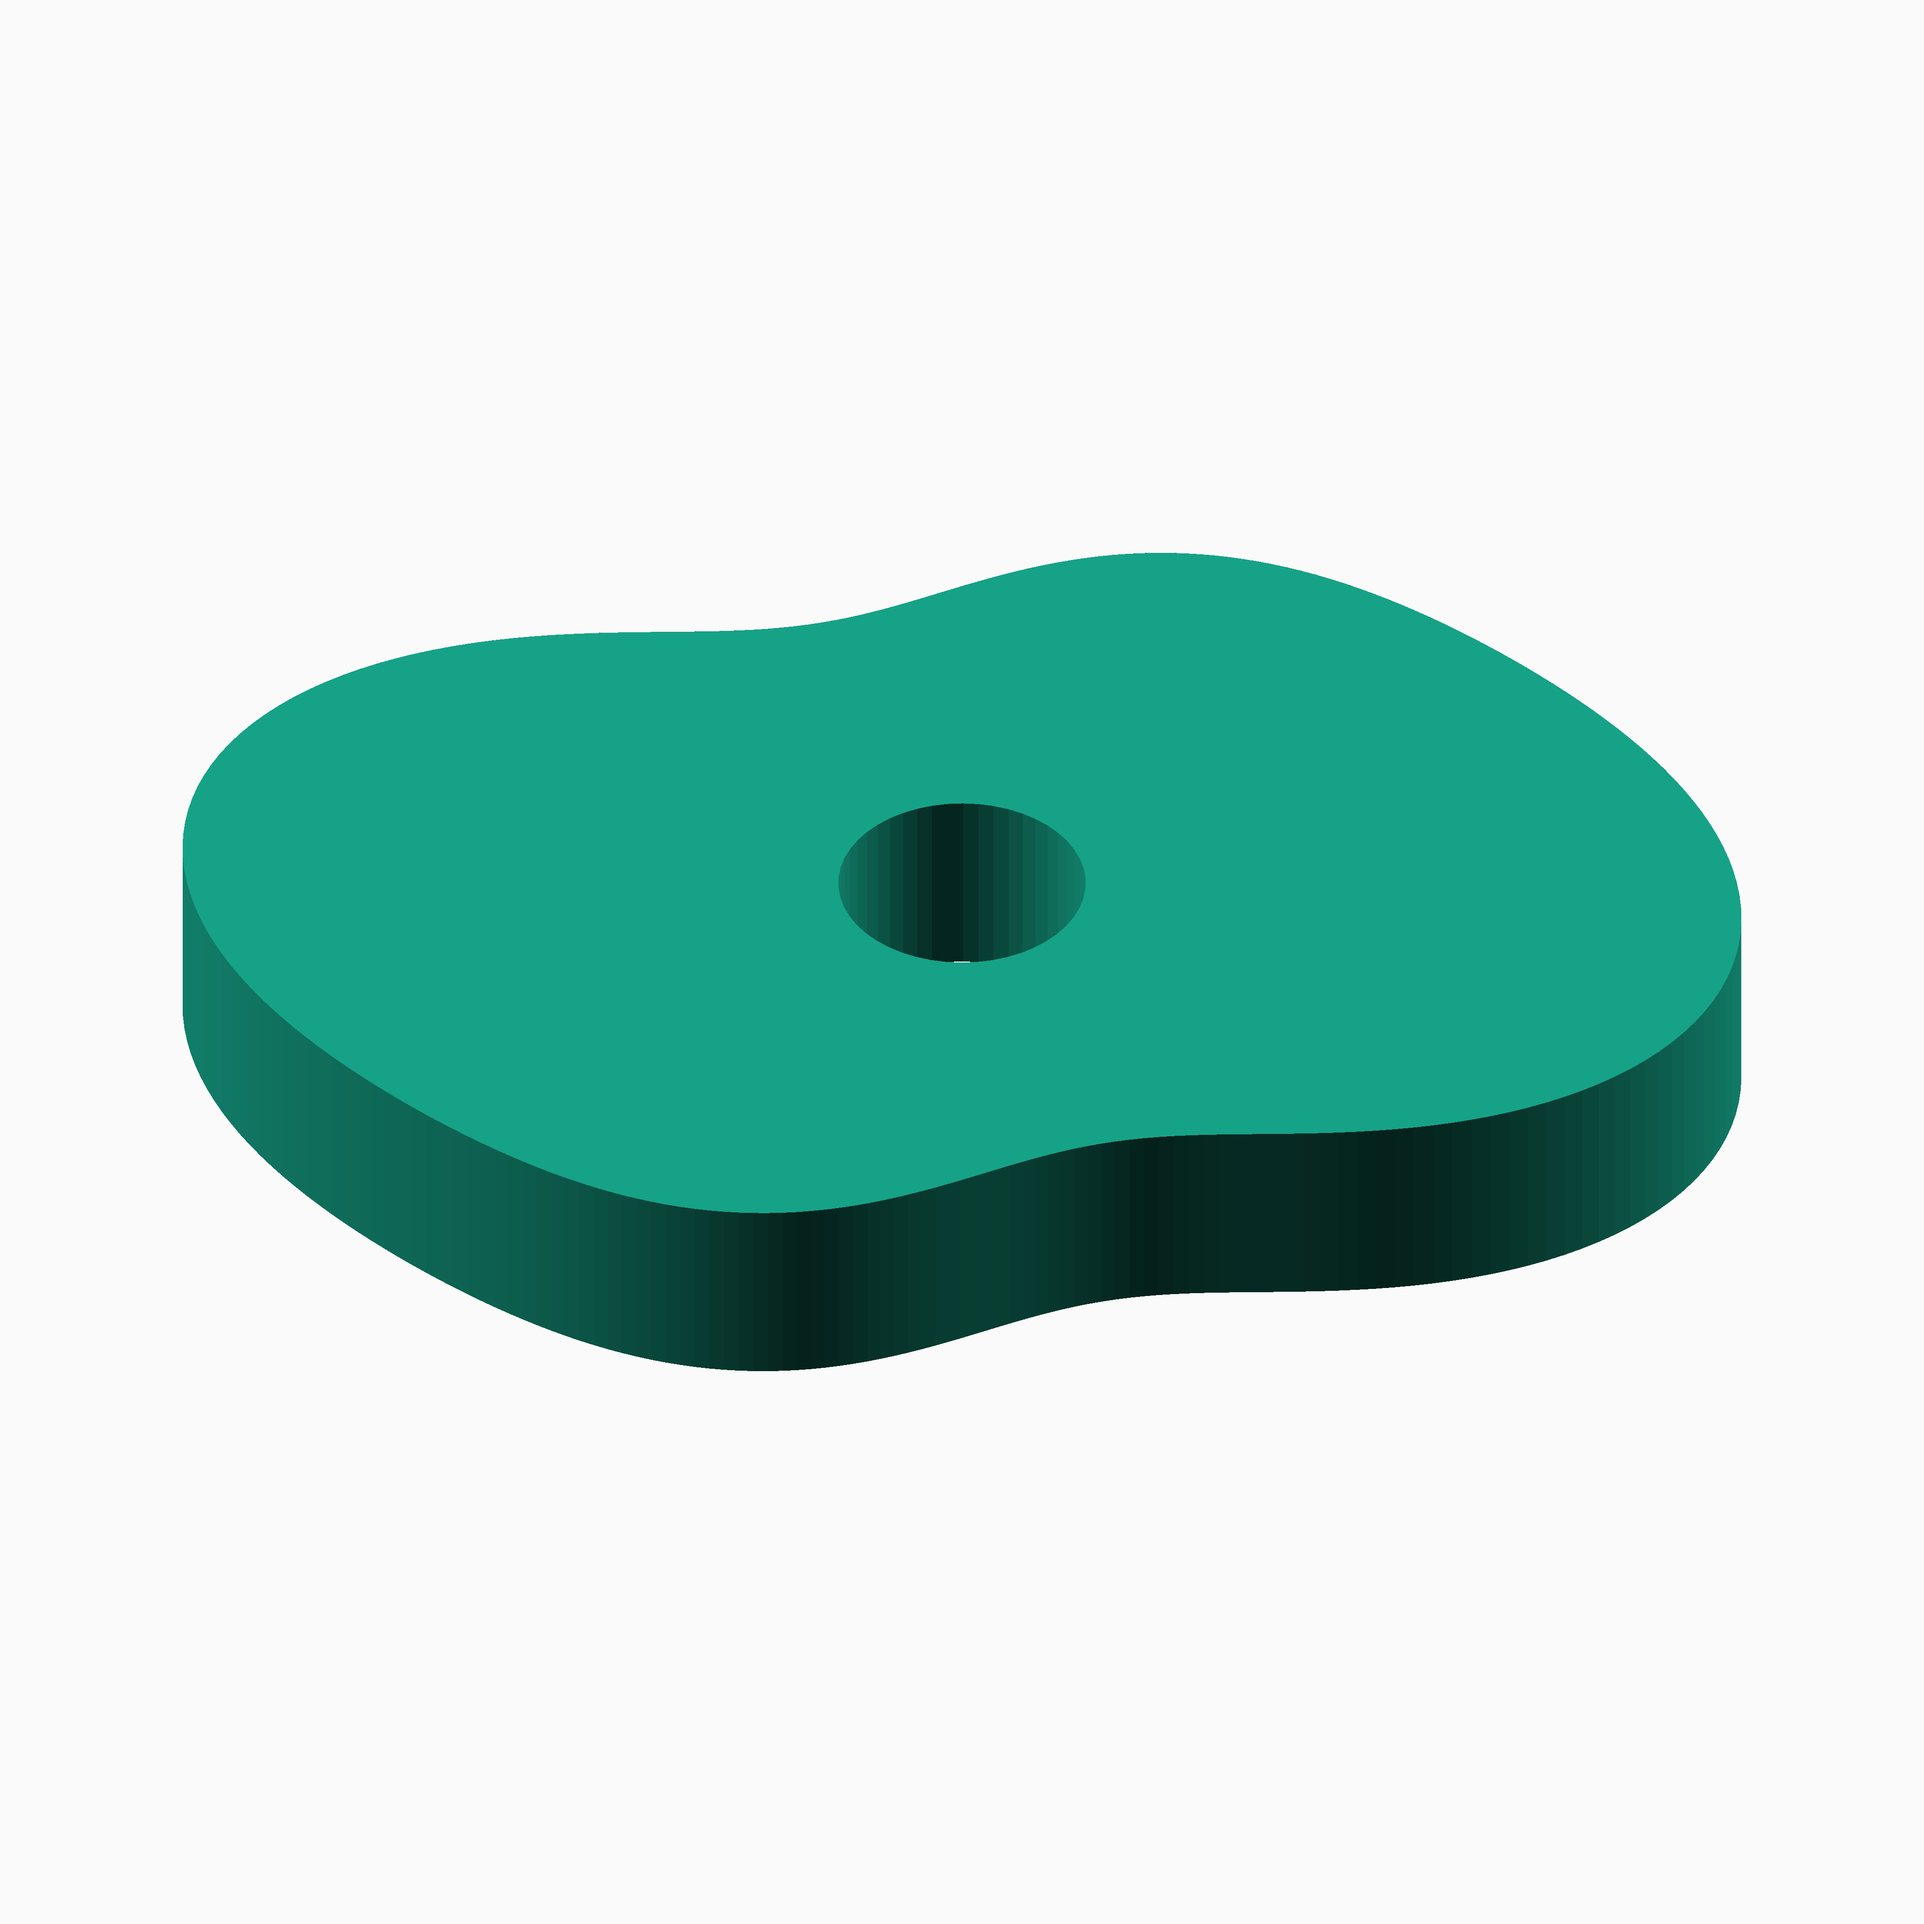
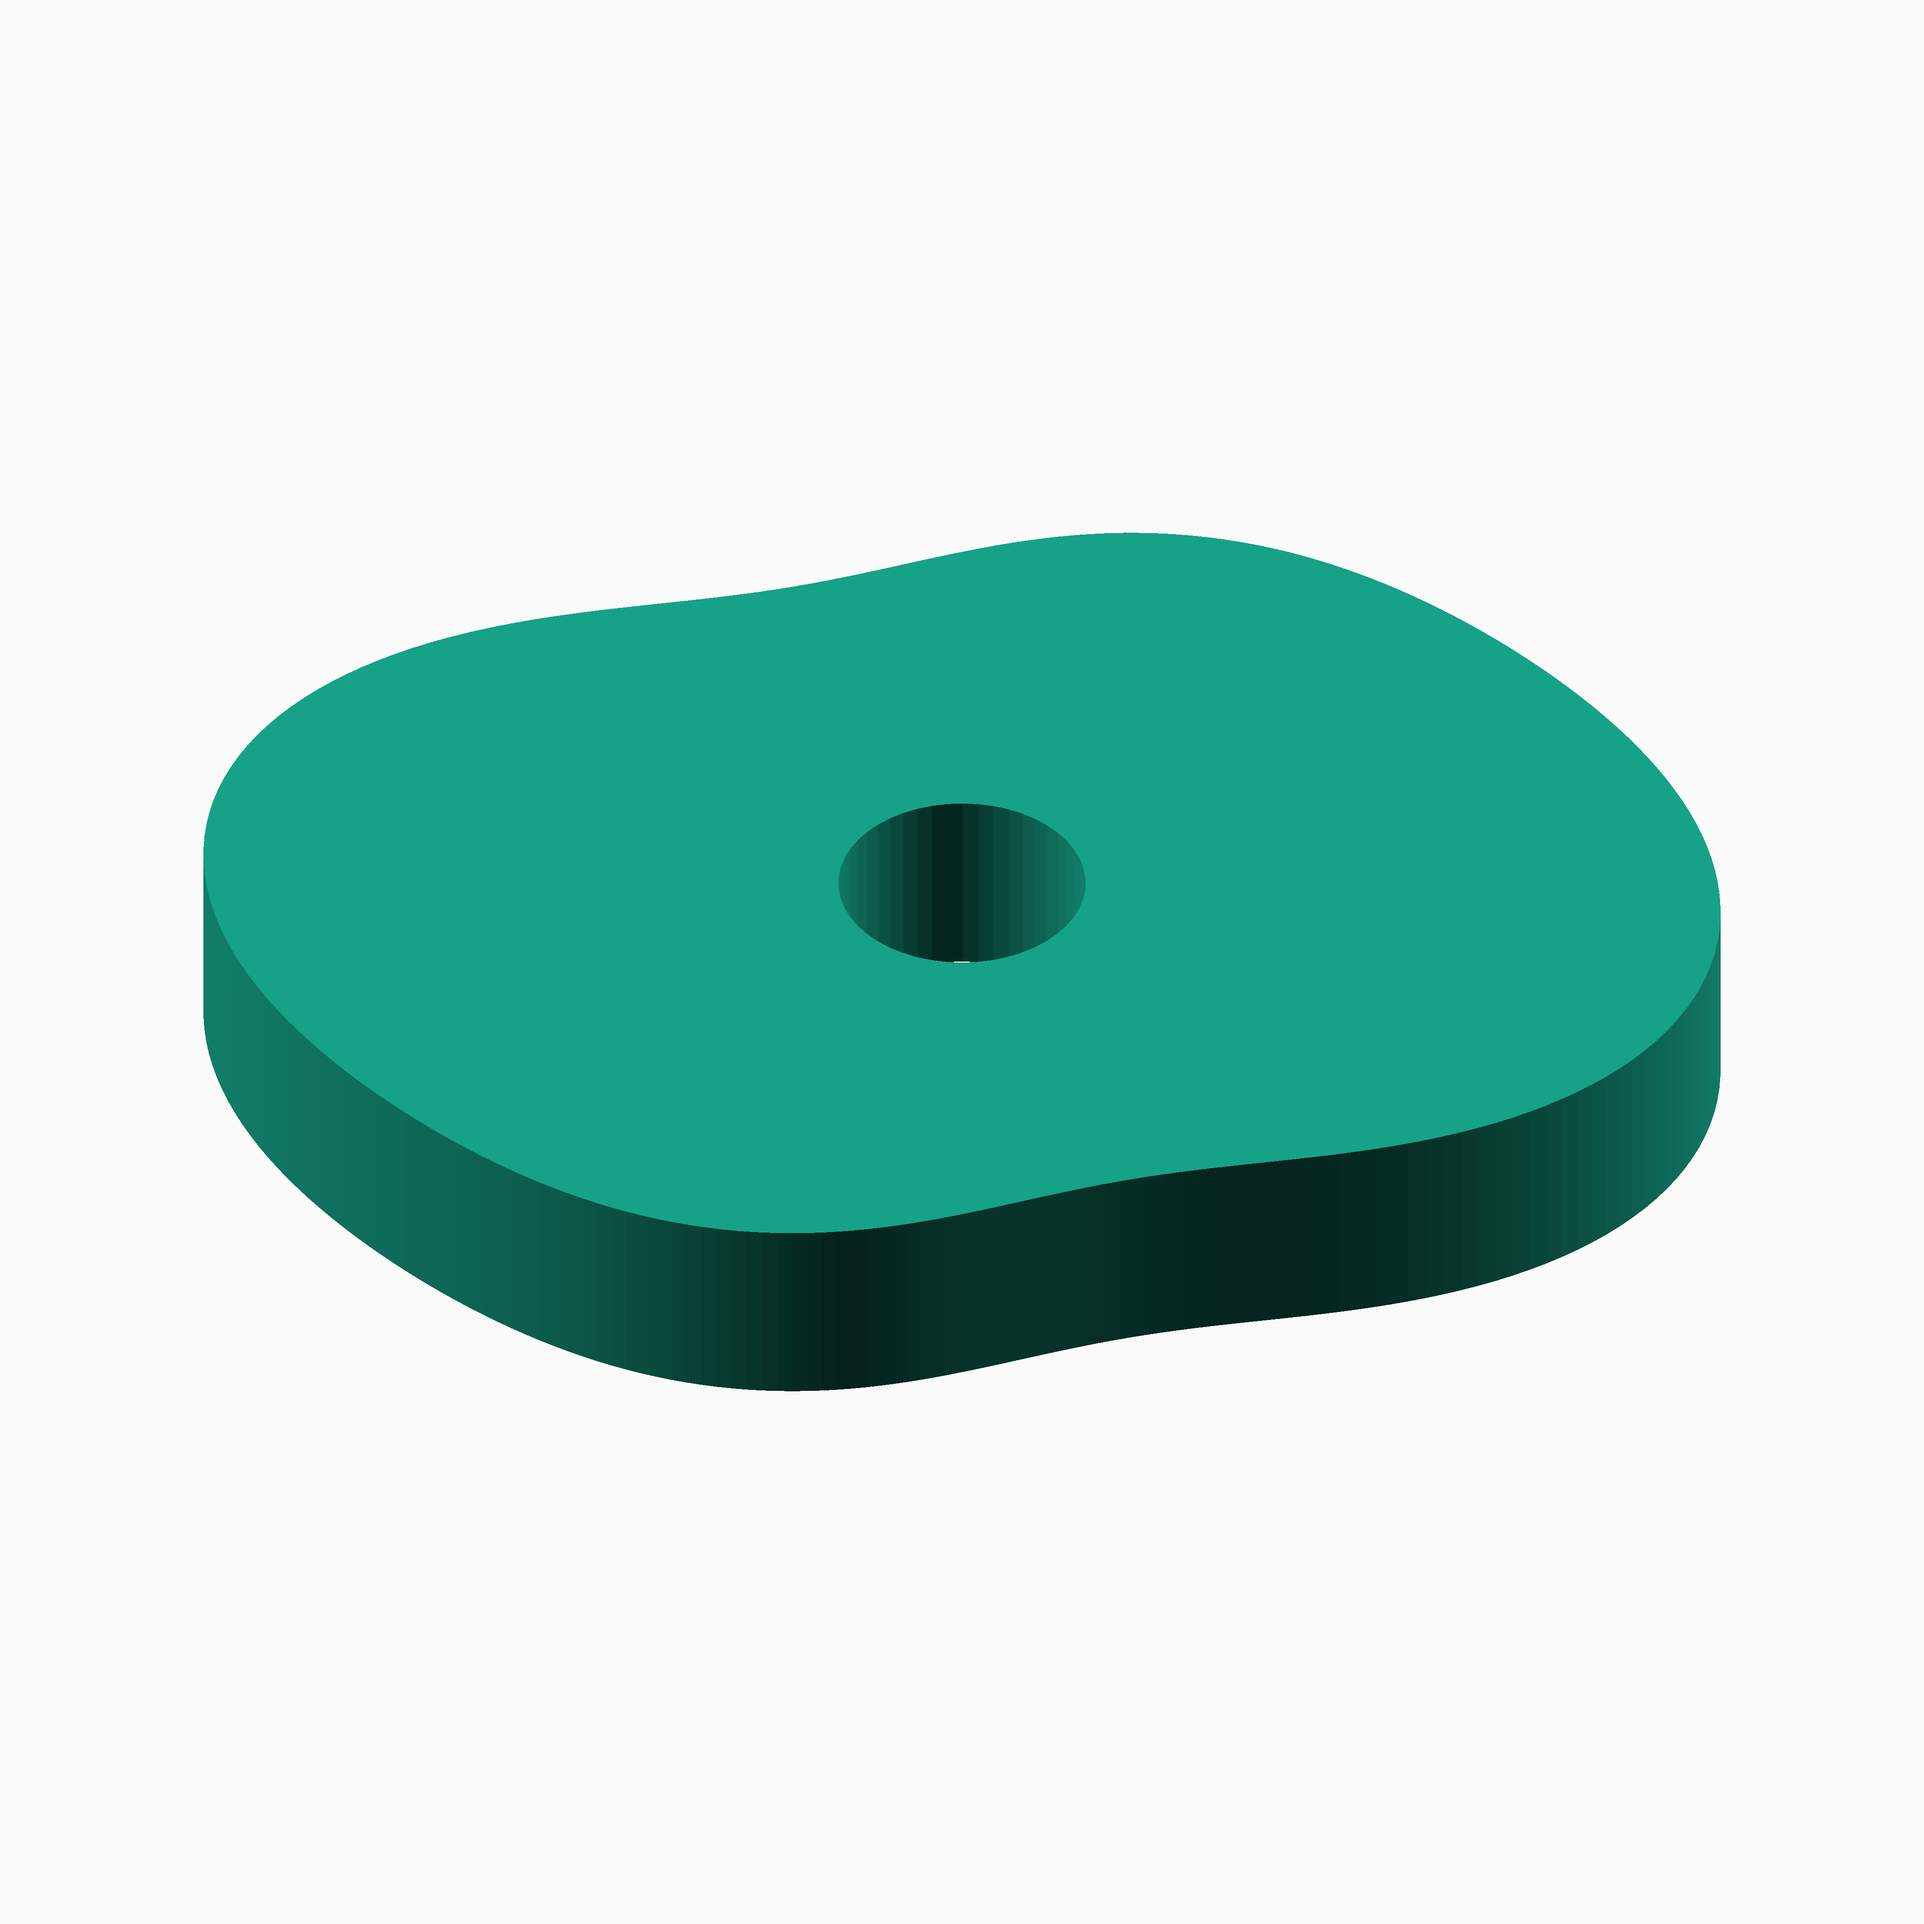
Emphasise Temple Fay contour

diff --git a/docs/temple_fay.md b/docs/temple_fay.md
@@ -14,7 +14,7 @@
 ## Module `Temple Fay`
 
 
-The project law is `r(theta)=1+0.12*sin(2 theta)+0.03*sin(4 theta)`.
+The project law is `r(theta)=1+0.18*sin(2 theta)+0.05*sin(4 theta)`.
 It is a bounded two-harmonic Fourier polar curve inspired by the Butterfly
 Curve associated with Temple H. Fay; this project name is intentional and
 does not claim that the implementation is the historical curve itself.
